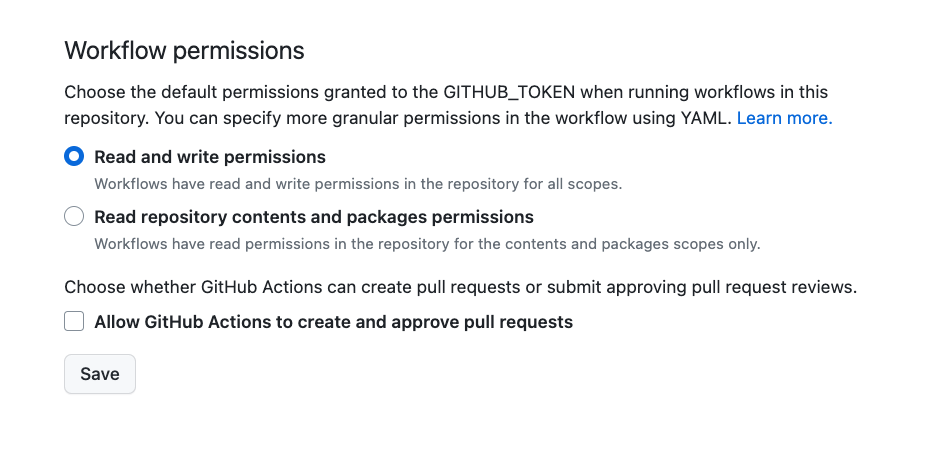
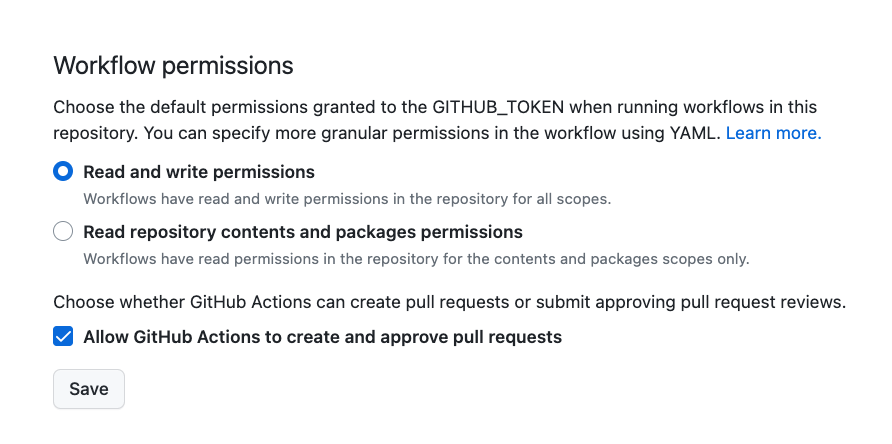
enable issues

Changed region(s): [[0.0605, 0.4392, 0.9383, 0.9077], [0.0605, 0.0878, 0.9383, 0.4099]]

diff --git a/content/en/docs/welcome/setup.md b/content/en/docs/welcome/setup.md
@@ -31,6 +31,17 @@ After a few seconds you will see your fork.
 
 ![fork created](images/fork-created.png)
 
+### Enable issues
+
+The tutorial makes use of GitHub issues. To enable issues click the `Settings` tab
+
+![settings](images/settings.png)
+
+Scroll down to features and click `Issues`:
+
+![allow issues](images/allow-issues.png)
+
+
 ### Enable read and write permissions for workflows
 
 By default, write permissions are not enabled for workflows.  Write permission is needed
@@ -44,7 +55,8 @@ Then `Actions` -> `General` on the menu on the left
 
 ![actions](images/settings-actions-general.png)
 
-Then enable read and write permissions for workflows and click save:
+Then enable read and write permissions for workflows, and allow GitHub Actions to
+create and approve pull requests and click save:
 
 ![workflow permissions](images/workflow-permissions.png)
 
